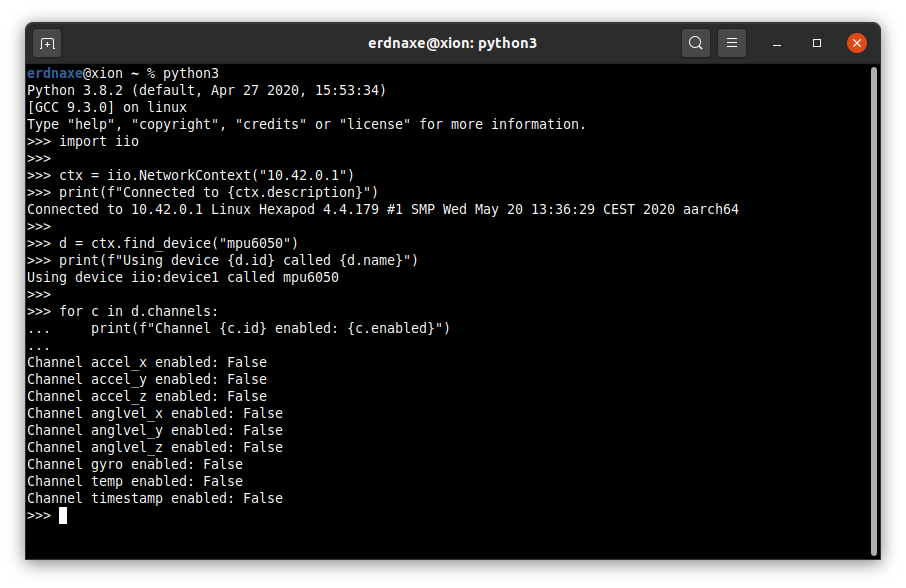
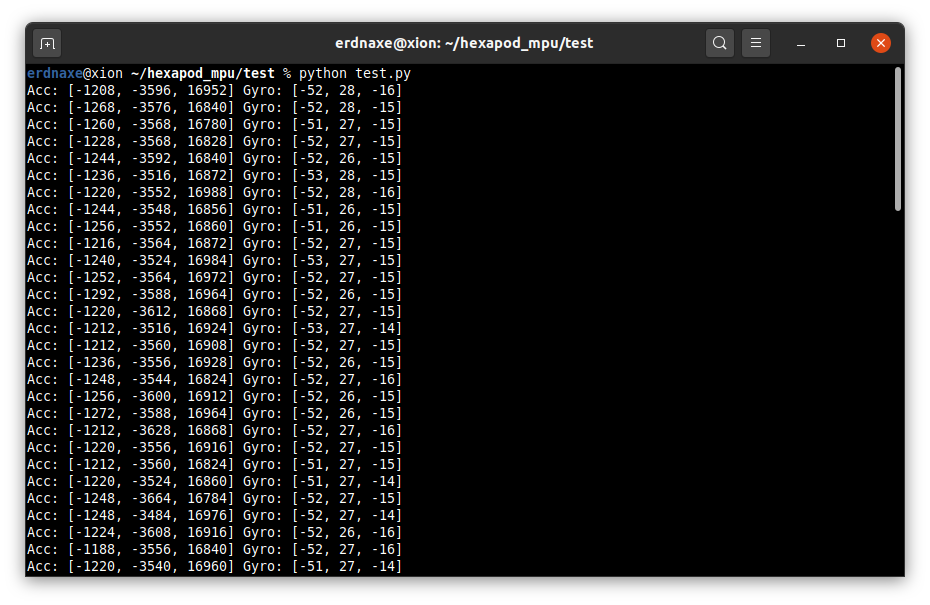
Use Context for Python iio

Changed region(s): [[0.0, 0.0306, 0.989, 0.9796]]

diff --git a/docs/install_nanopi_linux.md b/docs/install_nanopi_linux.md
@@ -115,26 +115,54 @@ hexdump -C /dev/iio\:device1
 
 ![X accelerometer streaming](img/iio_stream_axis.png)
 
-# Use MPU9250 in Python
+# Get raw data from MPU9250 in Python
 
-Download and install iiod server on NanoPi,
+Download, install and enable iiod server on NanoPi,
 ```bash
 sudo apt install iiod
+sudo systemctl enable iiod
 ```
 
 Now any device on the network can interact with the inertial motion unit,
-install `python3-libiio` then,
+install `python3-libiio` then use the following code to get data,
 ```python
 import iio
 
-ctx = iio.NetworkContext("10.42.0.1")
-print(f"Connected to {ctx.description}")
+class IMUBuffer:
+    channels = ["accel_x", "accel_y", "accel_z",
+                "anglvel_x", "anglvel_y", "anglvel_z"]
 
-d = ctx.find_device("mpu6050")
-print(f"Using device {d.id} called {d.name}")
+    def __init__(self, ip, device_name):
+        self.ip = ip
+        self.device_name = device_name
 
-for c in d.channels:
-    print(f"Channel {c.id} enabled: {c.enabled}")
+    def __enter__(self):
+        """
+        Connect to NanoPi and enable inertial motion unit device
+        """
+        context = iio.NetworkContext(self.ip)
+        self.device = context.find_device(self.device_name)
+        for c in self.channels:
+            self.device.find_channel(c).enabled = True
+        self.buffer = iio.Buffer(self.device, 1)
+        return self.buffer
+
+    def __exit__(self, *exc_info):
+        """
+        Properly close buffer and disable channels on exit
+        """
+        del self.buffer
+        for c in self.channels:
+            self.device.find_channel(c).enabled = True
+
+
+with IMUBuffer("10.42.0.1", "mpu6050") as buf:
+    for i in range(100):
+        buf.refill()  # Wait for buffer
+        h = buf.read()
+        acc = [int.from_bytes(h[i:i+2], byteorder='big', signed=True) for i in range(0, 6, 2)]
+        gyr = [int.from_bytes(h[i:i+2], byteorder='big', signed=True) for i in range(6, 12, 2)]
+        print("Acc:", acc, "Gyro:", gyr)
 ```
 
 ![IIO access in Python](img/iio_python.png)
